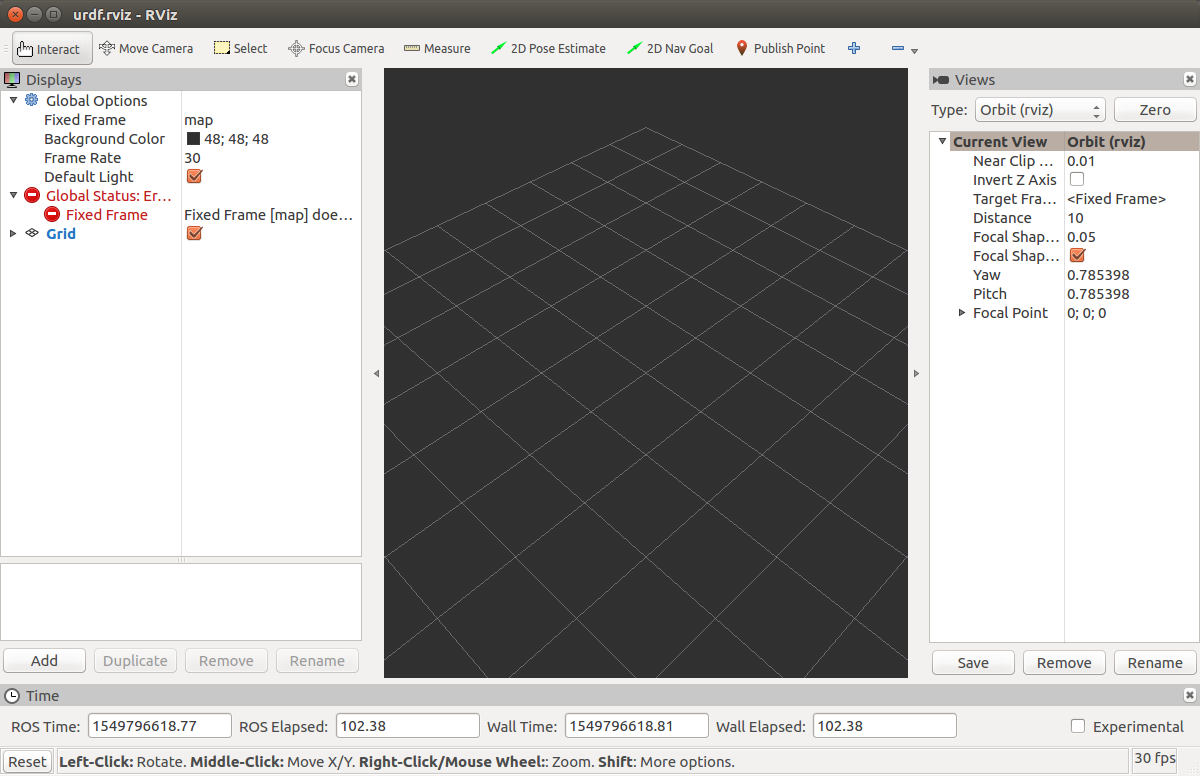
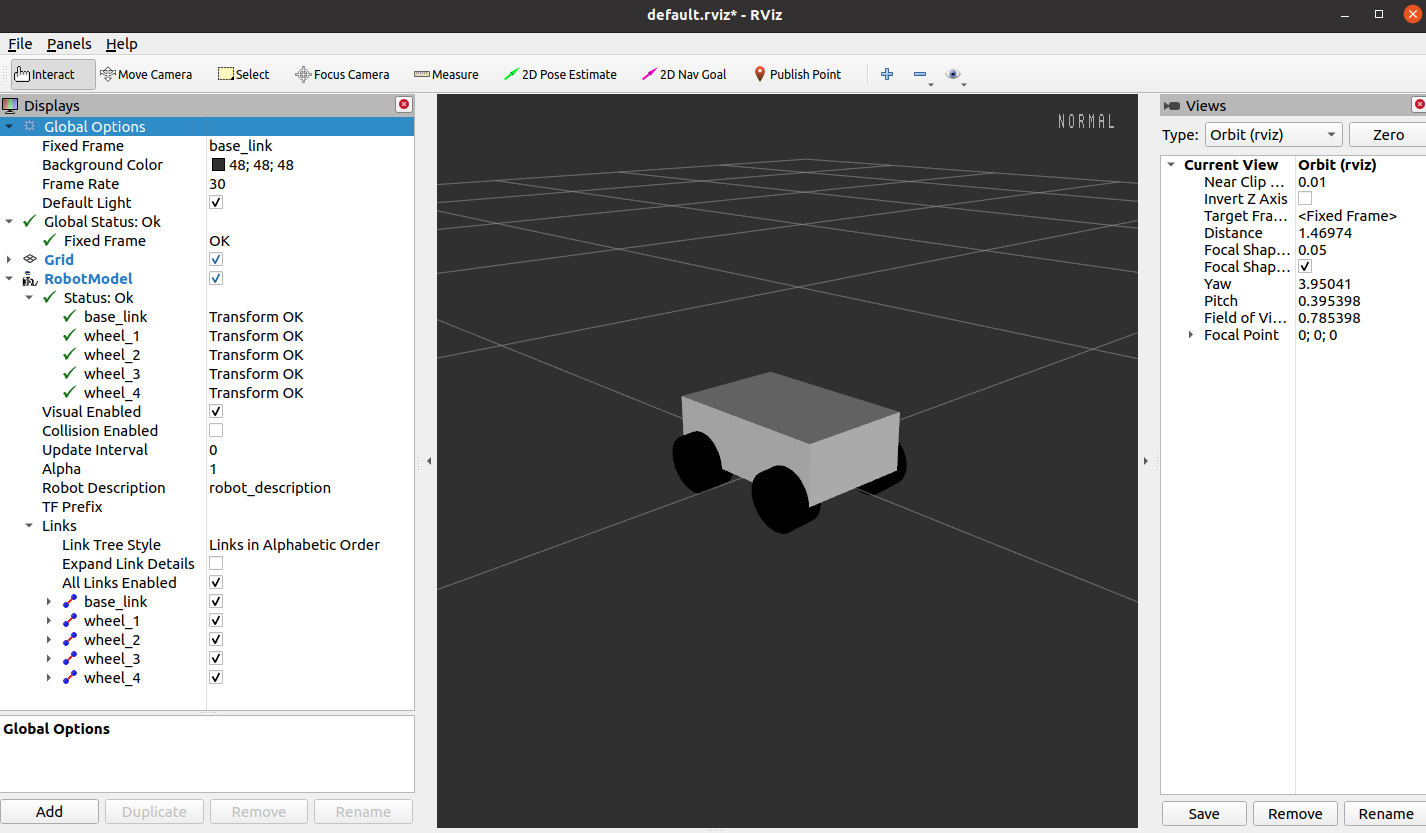
Updates to ros_description write-up

diff --git a/README.md b/README.md
@@ -29,27 +29,40 @@ Please go through the URDF file `robot.urdf` in
 Check whether the model is complete, and the list of components using the below
 commands.
 
-```sh
+**Note**: You may need to run `sudo apt-get install liburdfdom-tools`.
+
+```bash
 cd src/robot_description/urdf
 check_urdf robot.urdf
 ```
 
-We see few parent and children links as a result.
+The following output will be shown.
+
+```shell
+robot name is: robot1
+---------- Successfully Parsed XML ---------------
+root Link: base_link has 3 child(ren)
+    child(1):  wheel_1
+    child(2):  wheel_2
+    child(3):  wheel_3
+```
+
+**Exercise**: Update `robot.urdf` to include the missing component
 
 #### Launch the robot simulation
 
 For launching a simulation of an URDF modeled-robot, we require a few
 packages to be built as dependencies:
 
-* urdf_tutorial : `rosdep install urdf_tutorial`
-* robot_state_publisher : `rosdep install robot_state_publisher`
-* joint_state_publisher : `rosdep install joint_state_publisher`
+* **urdf_tutorial** : `rosdep install urdf_tutorial`
+* **robot_state_publisher** : `rosdep install robot_state_publisher`
+* **joint_state_publisher** : `rosdep install joint_state_publisher`
 
 We'll come back to the nodes `joint_state_publisher` and `robot_state_publisher`
 soon. For now, let's launch the simulation by doing the following:
 
-* Create a ROS-launch file named `display.launch` in the launch/ directory of
-robot_description. Populate it with the following contents.
+* Create a ROS-launch file named `display.launch` in [`src/robot_description/launch`](src/robot_description/launch) 
+* Populate it with the following contents.
 
 ```XML
 <?xml version="1.0"?>
@@ -66,28 +79,29 @@ robot_description. Populate it with the following contents.
     </launch>
 ```
 
-* Build the robot_description package using `catkin build`, which will make it
-a ROS-package. From sensor-integration directory run the following:
-    * `catkin build robot_description`
-
-* Source the development package path, to ensure robot_description package is
+* Build the `robot_description` package to make it a ROS-package. From the `sensor-integration` directory run:
+     ```bash
+     catkin build robot_description
+     ```
+* Source the development package path, to ensure `robot_description` package is
 discoverable in your shell environment (e.g. callable while using `rospack` command).
-    * `source devel/setup.bash` (or `source devel/setup.zsh` if you're using zsh shell)
-
+    ```bash
+    source devel/setup.bash
+  
+    # Use the following if you're using zsh shell
+    # source devel/setup.zsh
+    ```
 * Launch the modelled-robot through the `display.launch` and `robot.urdf` files that we just created.
+    ```bash
+    roslaunch robot_description display.launch model:=`rospack find robot_description`/urdf/robot.urdf use_gui:=true
+    ```
+* An RViz window should launch. Make the following changes:
+  * Set "Fixed Frame" to `base_link`. (**Note**: RViz sets this to `map` by default)
+  * Add `RobotModel` display via the "Add" button.
 
-```bash
-roslaunch robot_description display.launch model:=`rospack find robot_description`/urdf/robot.urdf use_gui:=true
-```
-
-Above command should launch an Rviz window, something similar to the image shown
-below:
+If successful you should see an output similar to the following image
 
 ![rviz_window](./resources/images/rviz_launch.png)
-
-Rviz by default sets the Fixed Frame to `map` frame. Please change it to
-`base_link` frame and add `RobotModel` display via the "Add" button.
-
 
 ##### Brief description of URDF file
 
